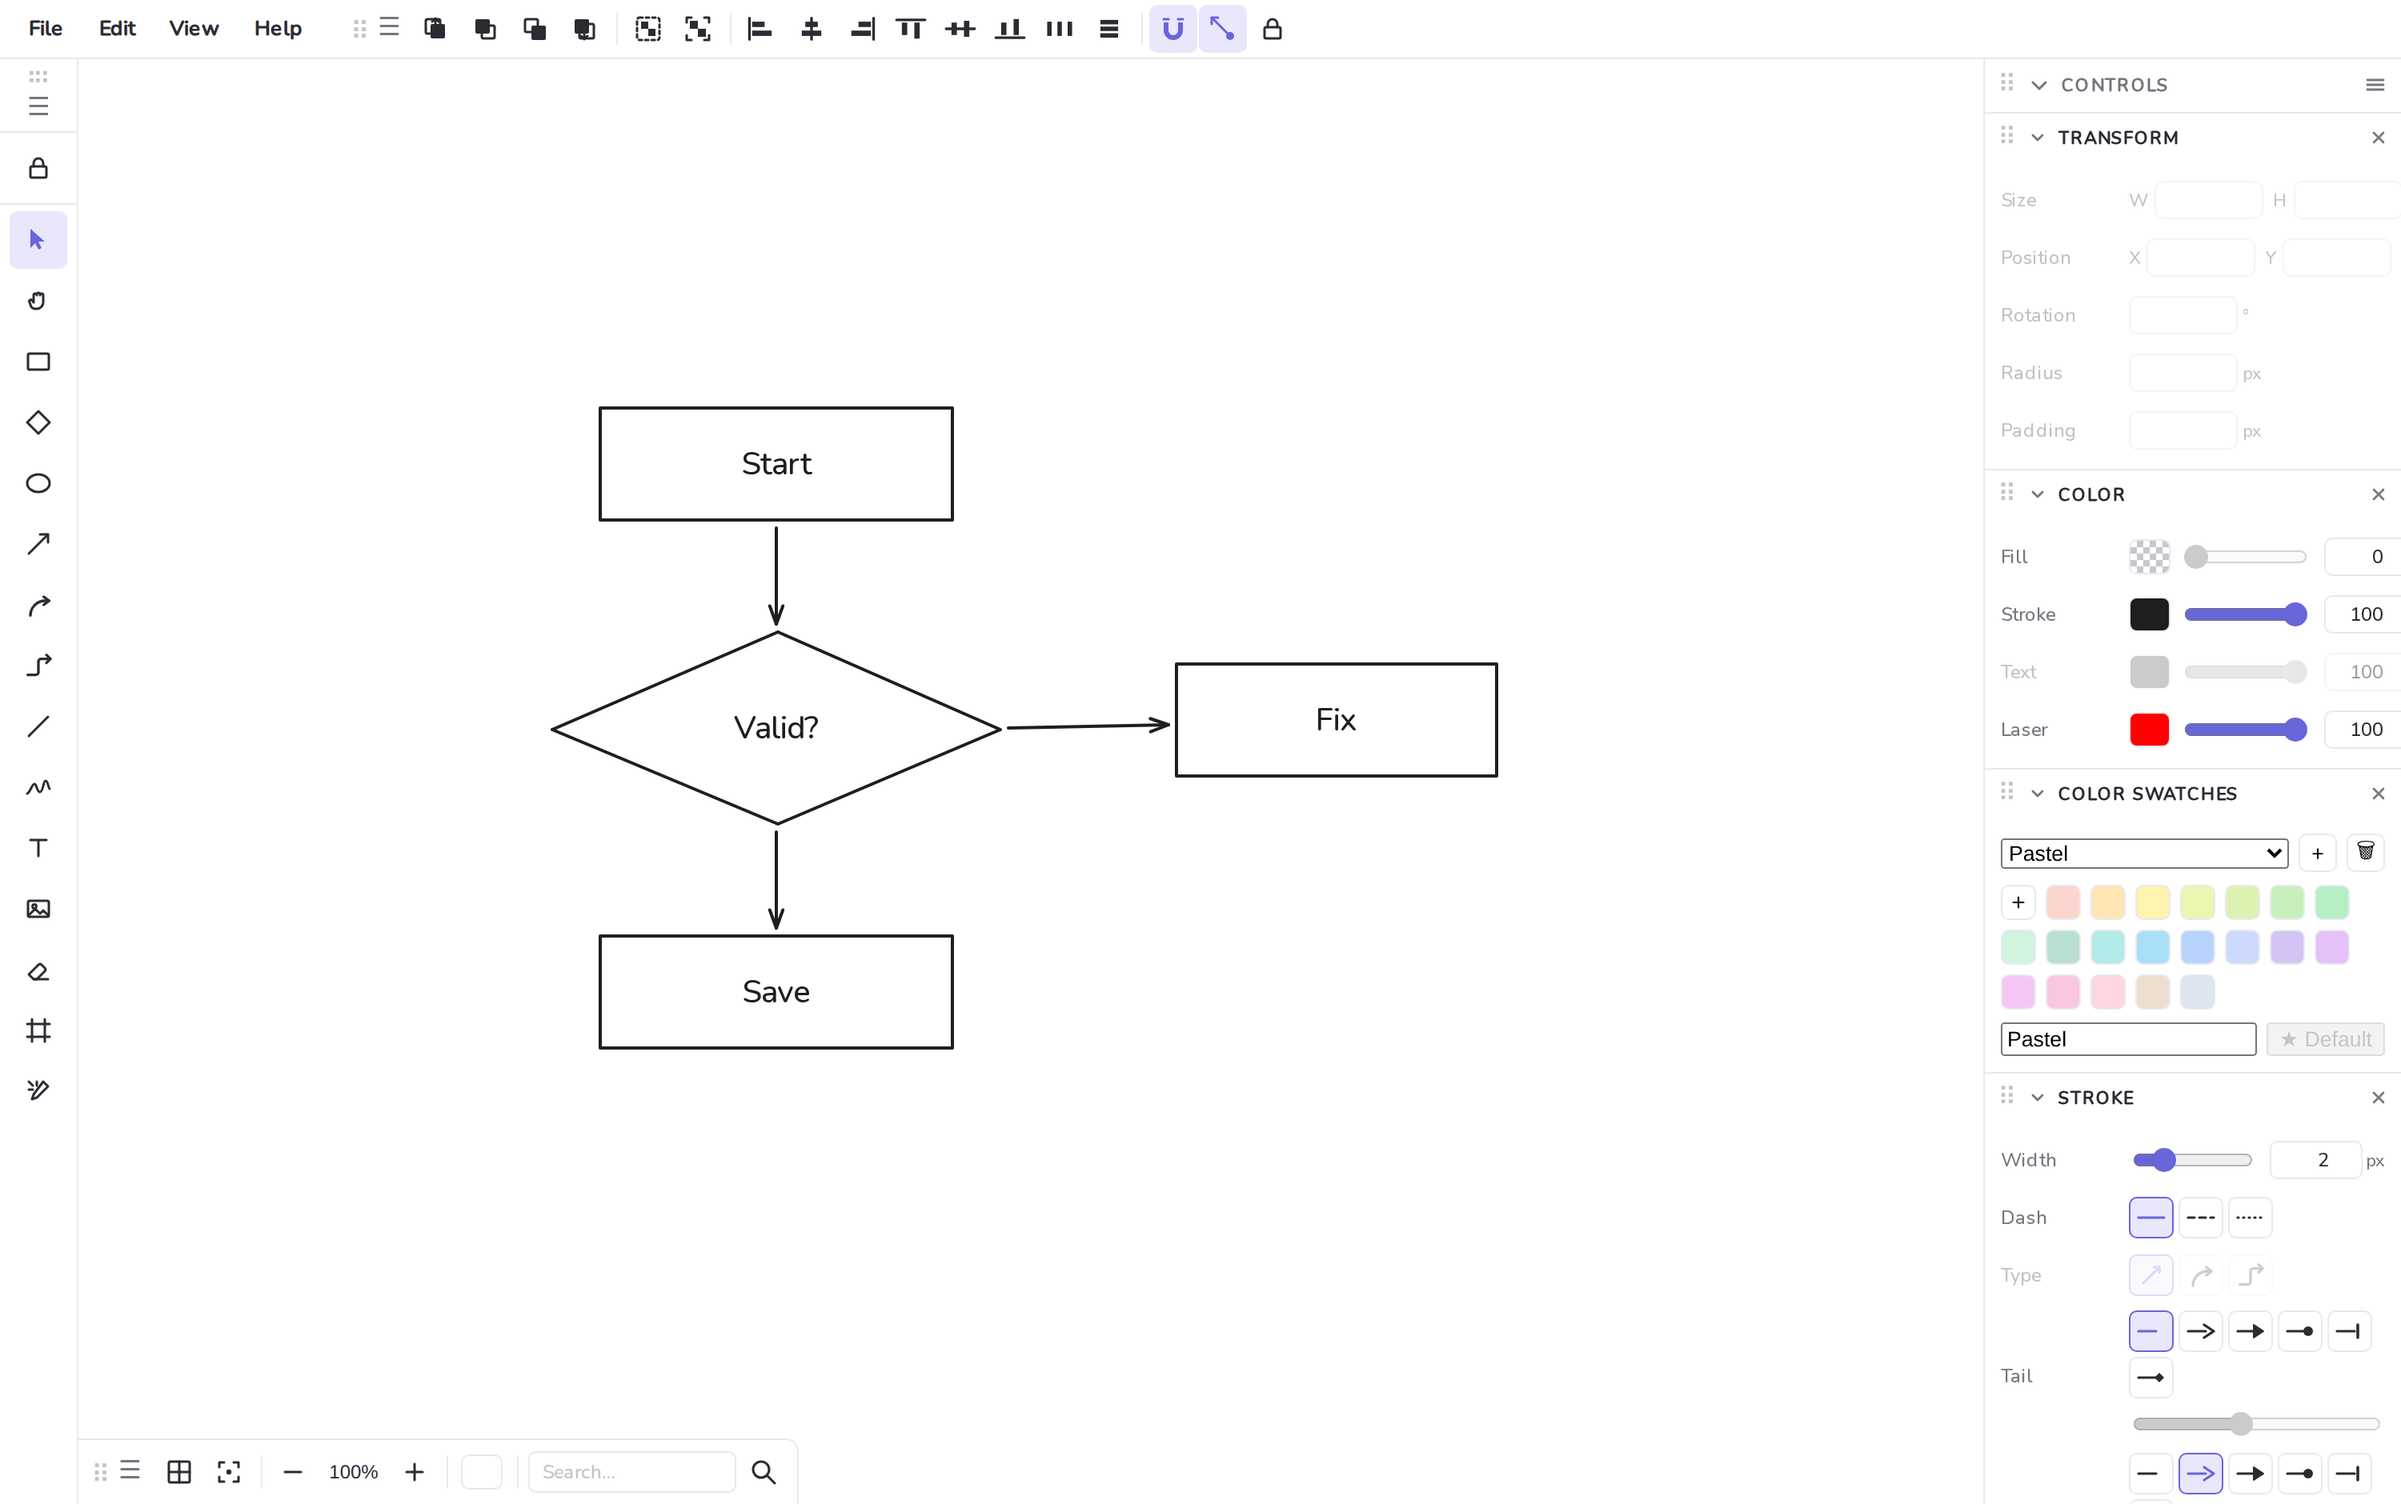
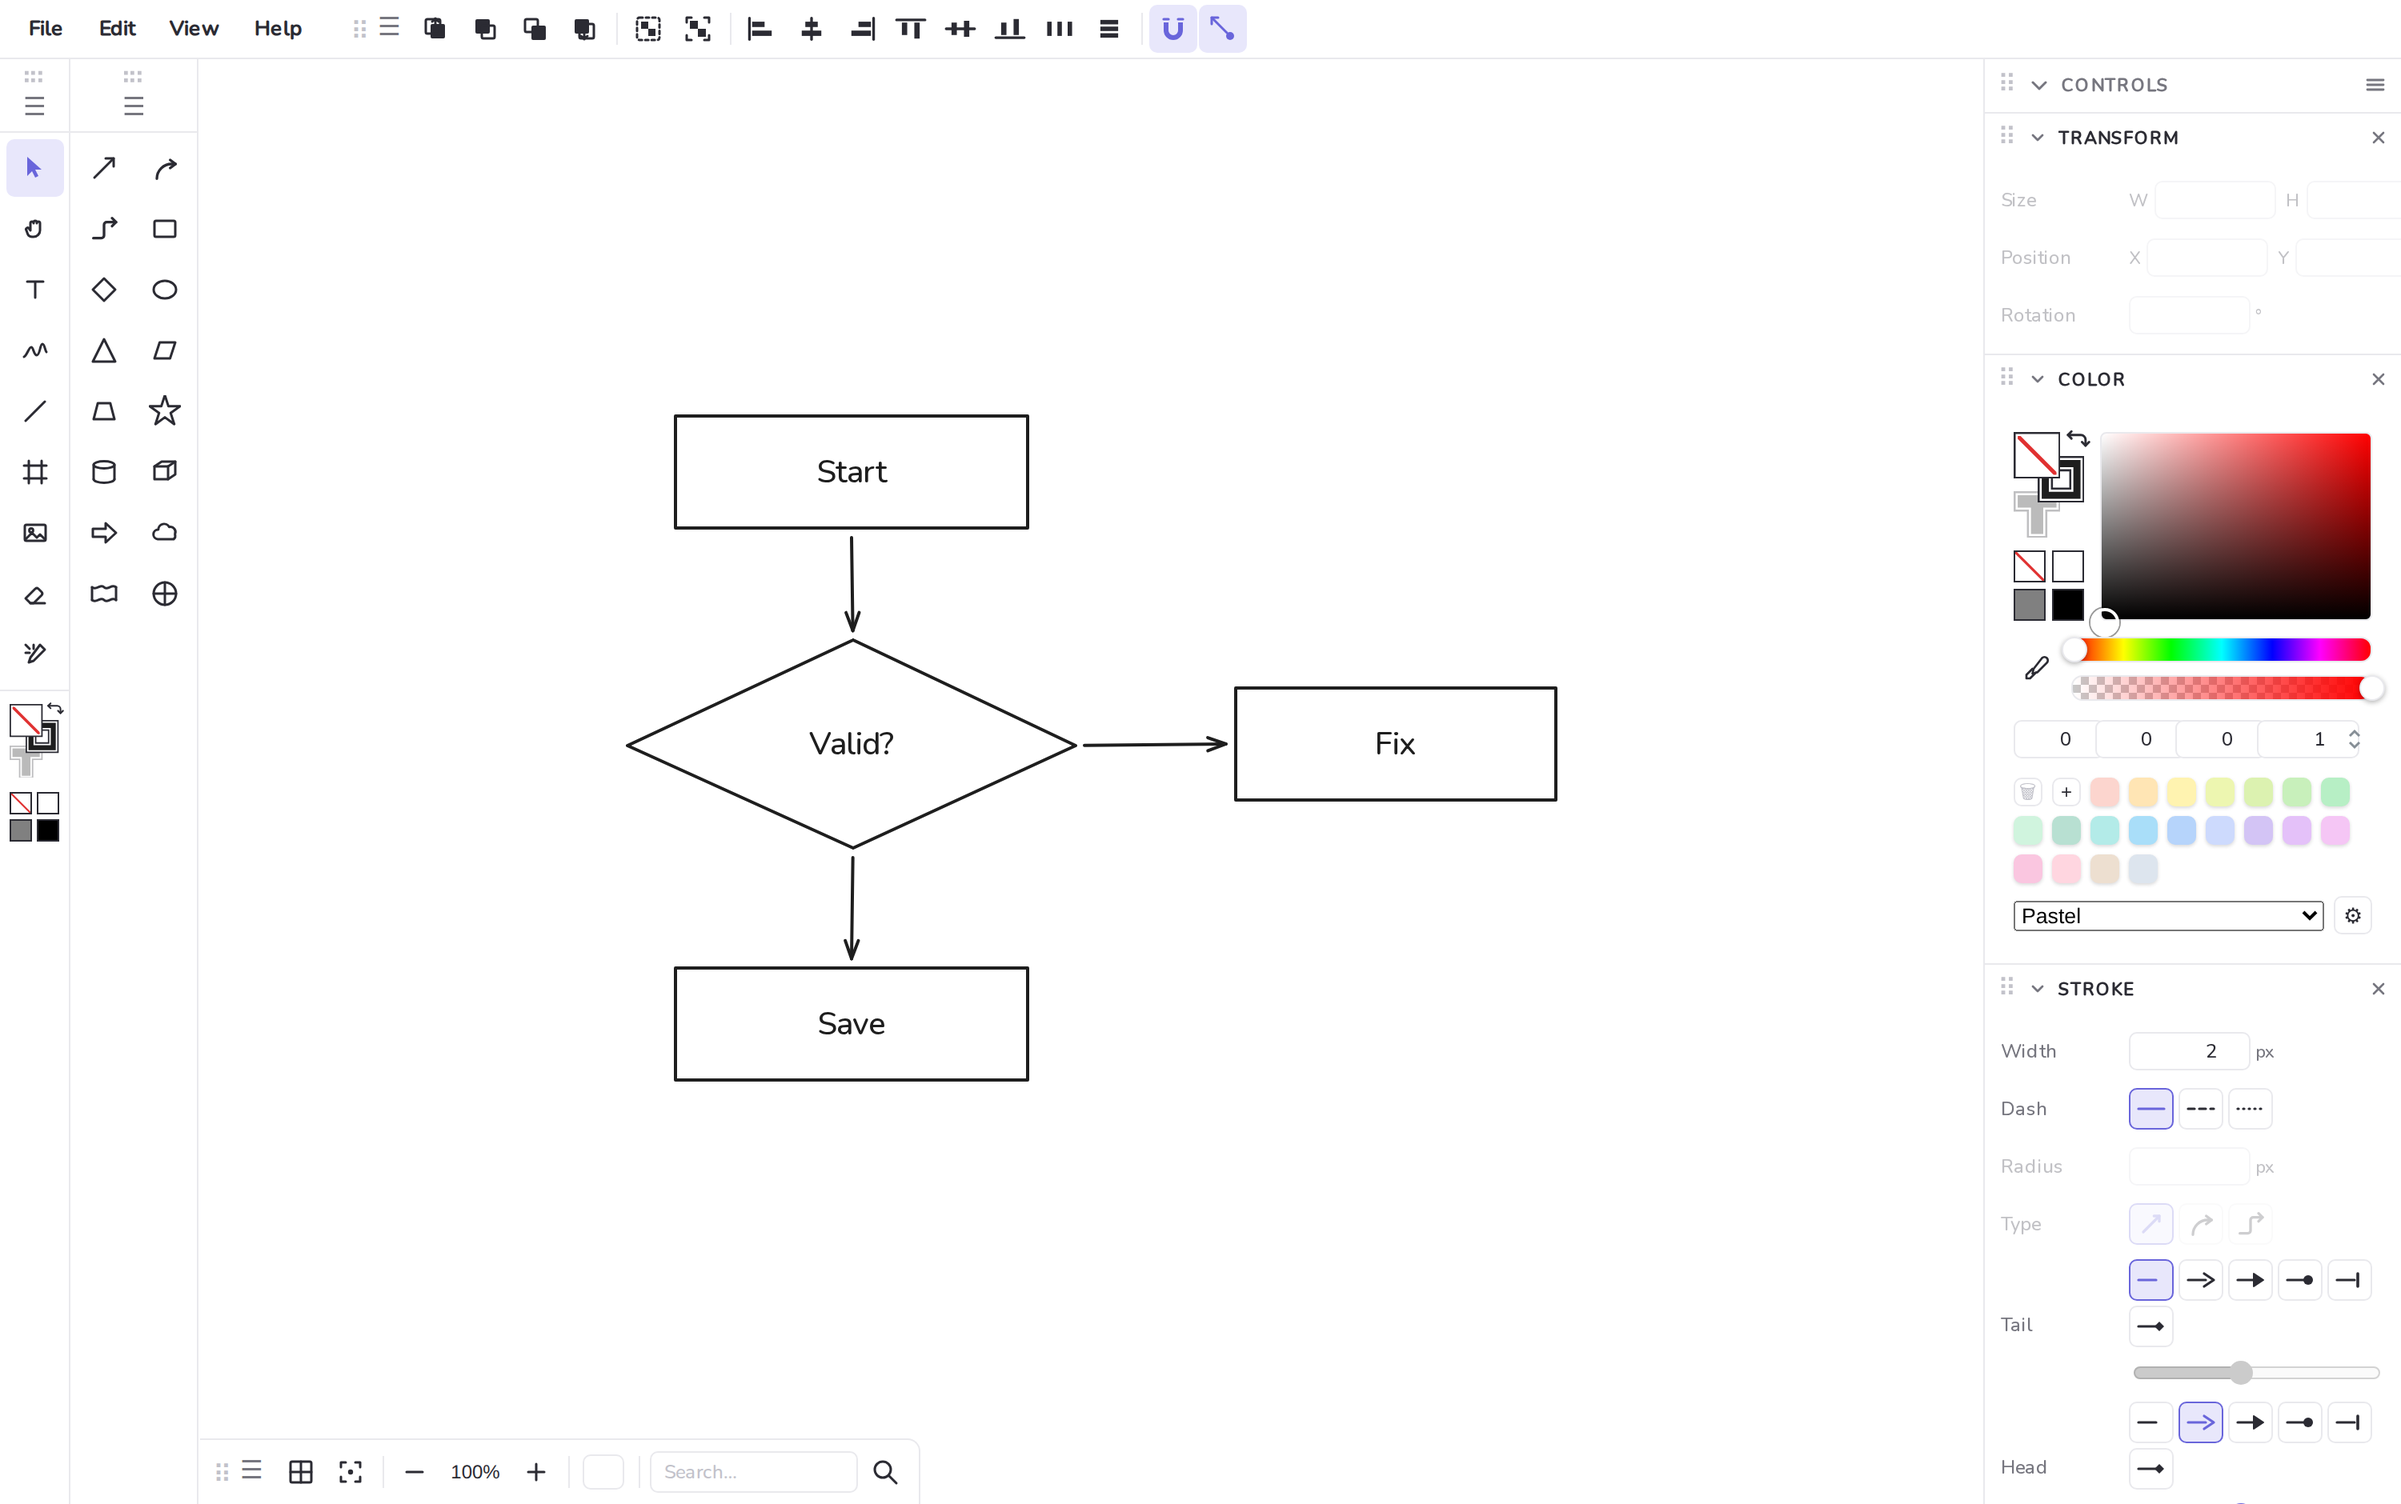
docs(readme): refresh the screenshot for the current UI
Regenerated by driving the real app with Playwright (tool-rail clicks and mouse
drags), not composited — same approach as the original capture, so the image
stays honest about what the product actually looks like.

The old image predated several changes: the tool rail is now two rails (44px
Tools + 80px Shapes, a 124px gutter rather than 48px), and the Swatches panel
was merged into Color back in August. Geometry was re-measured rather than
reused: canvas is x 130..1235, y 45..890 at a 1500x940 viewport, 2x DSF.

Alt text updated to match — it still described a single "vertical tool rail"
and a "Swatches" panel that no longer exists.

Two capture details worth keeping, both learned the hard way:
- Nothing may be left selected. A selected element keeps its handles and makes
  the Transform panel show live values, which reads as a bug in a hero image.
- Escape is NOT enough to deselect a labelled container any more — since the
  text-submit fix earlier today it deliberately stays selected, so the script
  clicks empty canvas.

Verified by reading the PNG back: 11 elements, 3 bound arrows, 0 selected.

diff --git a/README.md b/README.md
@@ -6,7 +6,7 @@ flow is a standalone, single-bundle web app. It ships as plain static files with
 
 > flow reshapes Excalidraw into a desktop-style application: a traditional menu bar, an Illustrator-style dockable properties panel, and local-first storage — while keeping Excalidraw's excellent hand-drawn rendering engine underneath.
 
-![flow with a flowchart on the canvas — desktop menu bar and quick-actions row along the top, vertical tool rail on the left, and the dockable Transform / Color / Swatches / Stroke panels on the right](docs/images/screenshot.png)
+![flow with a flowchart on the canvas — desktop menu bar and quick-actions row along the top, the tool rail and shape rail down the left, and the dockable Transform / Color / Stroke panels on the right](docs/images/screenshot.png)
 
 ---
 
